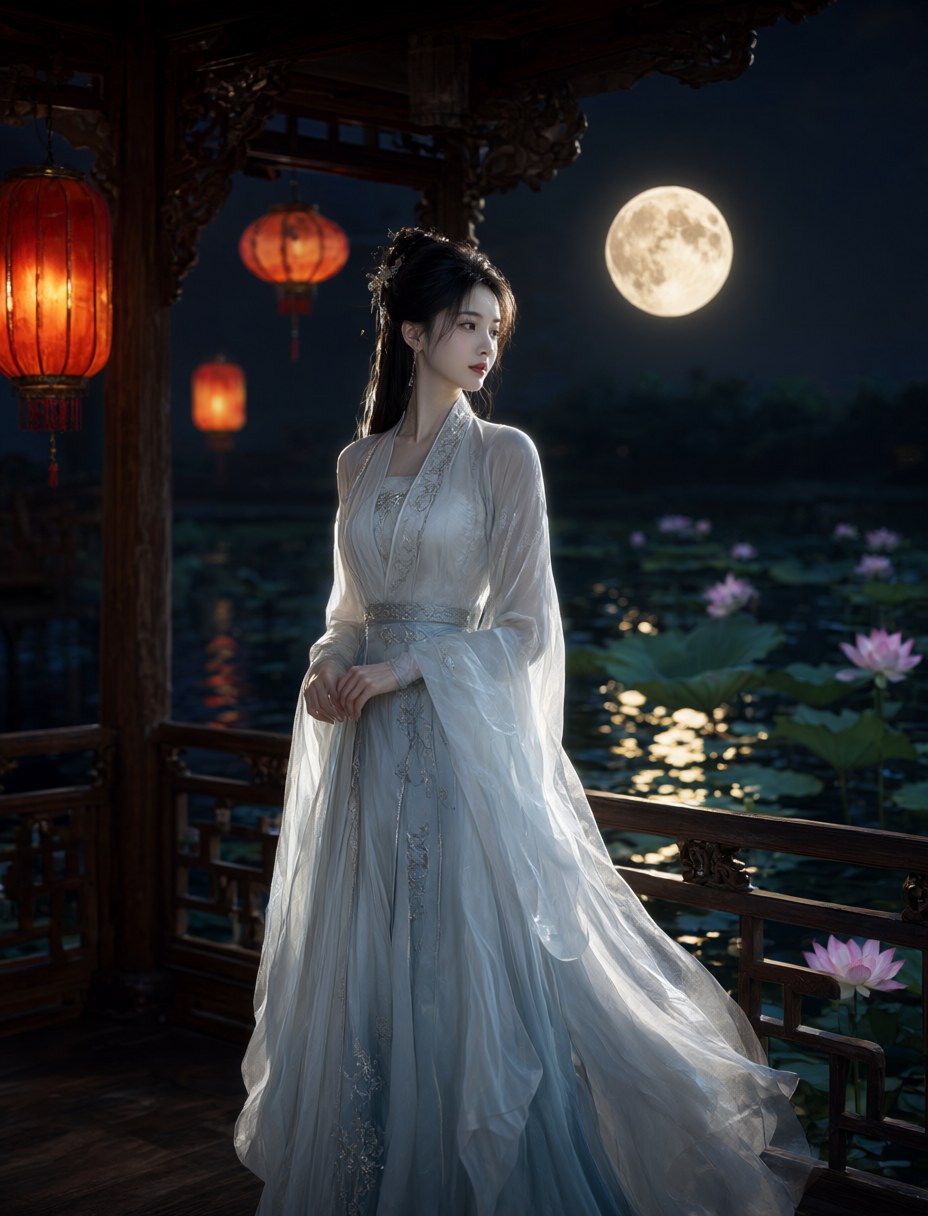
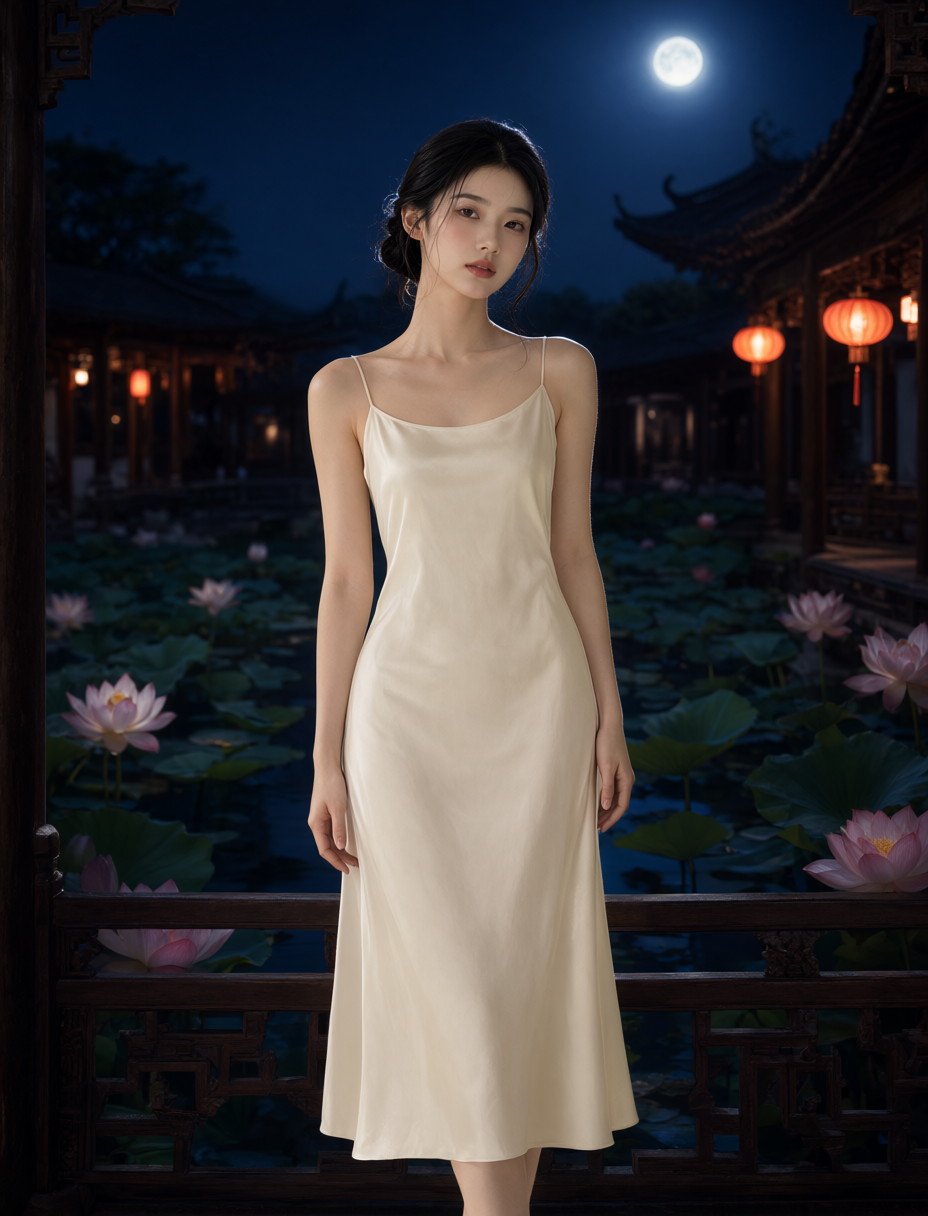
feat(assets): replace benchmark 07 with genuine M1-based edit relighting image

diff --git a/PROMPTS.md b/PROMPTS.md
@@ -120,14 +120,15 @@ Use <image1> as the reference for the East Asian woman's facial identity, skin t
 
 ---
 
-### 战役 07: 满月荷塘夜景重绘 (冷暖双轮廓光)
-- **模式**：T2I / Relighting
-- **推荐尺寸**：`928 × 1216` (3:4 安全网格)
-- **采样参数**：Steps 32, CFG 1.0
+### 战役 07: 单图环境重塑与全局重打光 (M1 底图换水榭荷塘夜景)
+- **模式**：Edit (单图参考背景重绘与 Relighting)
+- **输入图**：`<image1>` 原始母体素材 M1 骨相美人 (`assets/input_references/m1_base_beauty_2k.png`)
+- **推荐尺寸**：`928 × 1216` (3:4 安全网格，resolution=1056)
+- **采样参数**：Steps 32, CFG 1.0, Denoise 1.0
 - **成果大图**：[`07_test_moonlit_lotus_relighting.png`](assets/07_test_moonlit_lotus_relighting.png)
 - **Prompt (英文)**：
 ```text
-Extreme cinematic masterpiece photograph of a stunning East Asian fairy maiden in an exquisite white and indigo silk hanfu dress standing gracefully in a moonlit lotus pond pavilion at deep twilight. The luminous full moon hangs in the indigo night sky. Her face and hair are illuminated by cool silver lunar rim lighting, while glowing warm lanterns under the wooden eaves cast delicate amber reflections on the rippling water. Soft ethereal atmosphere, natural porcelain skin with subsurface scattering, intricate silk embroidery, zero noise, 8k resolution, photorealistic.
+Use <image1> as the canvas for the person's identity, facial features, porcelain skin tone, hairstyle, and ivory silk dress. Completely replace the minimalist daytime architectural background with an atmospheric classical Chinese water town courtyard at night: a serene dark lotus pond under a deep indigo night sky with a luminous glowing full moon, carved wooden pavilion railings, blooming pink lotus flowers, and warm red silk lanterns casting a gentle glow. Relight the subject naturally according to the new moonlit environment, casting delicate cool silver rim lighting along her hair, shoulders, and silk dress folds, with soft warm amber bounce light from the lanterns reflecting across her skin. Preserve the subject's face, body proportions, and elegant pose from <image1> exactly unchanged, seamless natural composition, masterpiece.
 ```
 
 ---

diff --git a/assets/README.md b/assets/README.md
@@ -18,7 +18,7 @@
 | **04B** | 双图高定物料迁移 | [`04b_test_couture_dress_transfer.png`](./04b_test_couture_dress_transfer.png) | 928 × 1216 | 18.2 GB · 55.1s | 欧根纱半透明光泽、高定洋装面料纹理精准复刻 |
 | **05** | 三视图动态姿势重绘 | [`05_test_dynamic_pose_recreation.png`](./05_test_dynamic_pose_recreation.png) | 1824 × 1216 | 18.9 GB · 62.3s | 汉服三视图驱动暮色水榭漫步回眸，身份一致 |
 | **06** | 商业香水人货焦散 | [`06_test_commercial_perfume_ad.png`](./06_test_commercial_perfume_ad.png) | 928 × 1216 | 18.1 GB · 51.4s | 水晶瓶切面琥珀色液体焦散折射至右手皮肤 |
-| **07** | 满月荷塘夜景重绘 | [`07_test_moonlit_lotus_relighting.png`](./07_test_moonlit_lotus_relighting.png) | 928 × 1216 | 18.4 GB · 39.2s | 暮色满月夜景，冷白皮月光与宫灯双轮廓光 |
+| **07** | 单图环境重塑与重打光 | [`07_test_moonlit_lotus_relighting.png`](./07_test_moonlit_lotus_relighting.png) | 928 × 1216 | 18.4 GB · 92.3s | M1底图置换水榭荷塘，冷白月光与宫灯双轮廓光 |
 | **08** | 吹制水晶鹤 RGBA | [`08_test_rgba_transparent_crane.png`](./08_test_rgba_transparent_crane.png) | 1536 × 1536 | 20.1 GB · 98.2s | 原生 4 通道 Alpha 资产，免抠绿幕纯透明底 |
 | **09** | 10位肖像并发群像 | [`09_test_group_10ref_santorini.png`](./09_test_group_10ref_santorini.png) | 1216 × 928 | 21.1 GB · 69.8s | 吞吐 ~2万 Tokens，圣托里尼 10 人合影无畸变 |
 | **10** | 金色云海超现实仙女 | [`10_test_surreal_fairy_wings.png`](./10_test_surreal_fairy_wings.png) | 1536 × 1536 | 20.3 GB · 97.6s | 背生巨大透明琉璃蝶翼，解剖级骨骼结构 |
